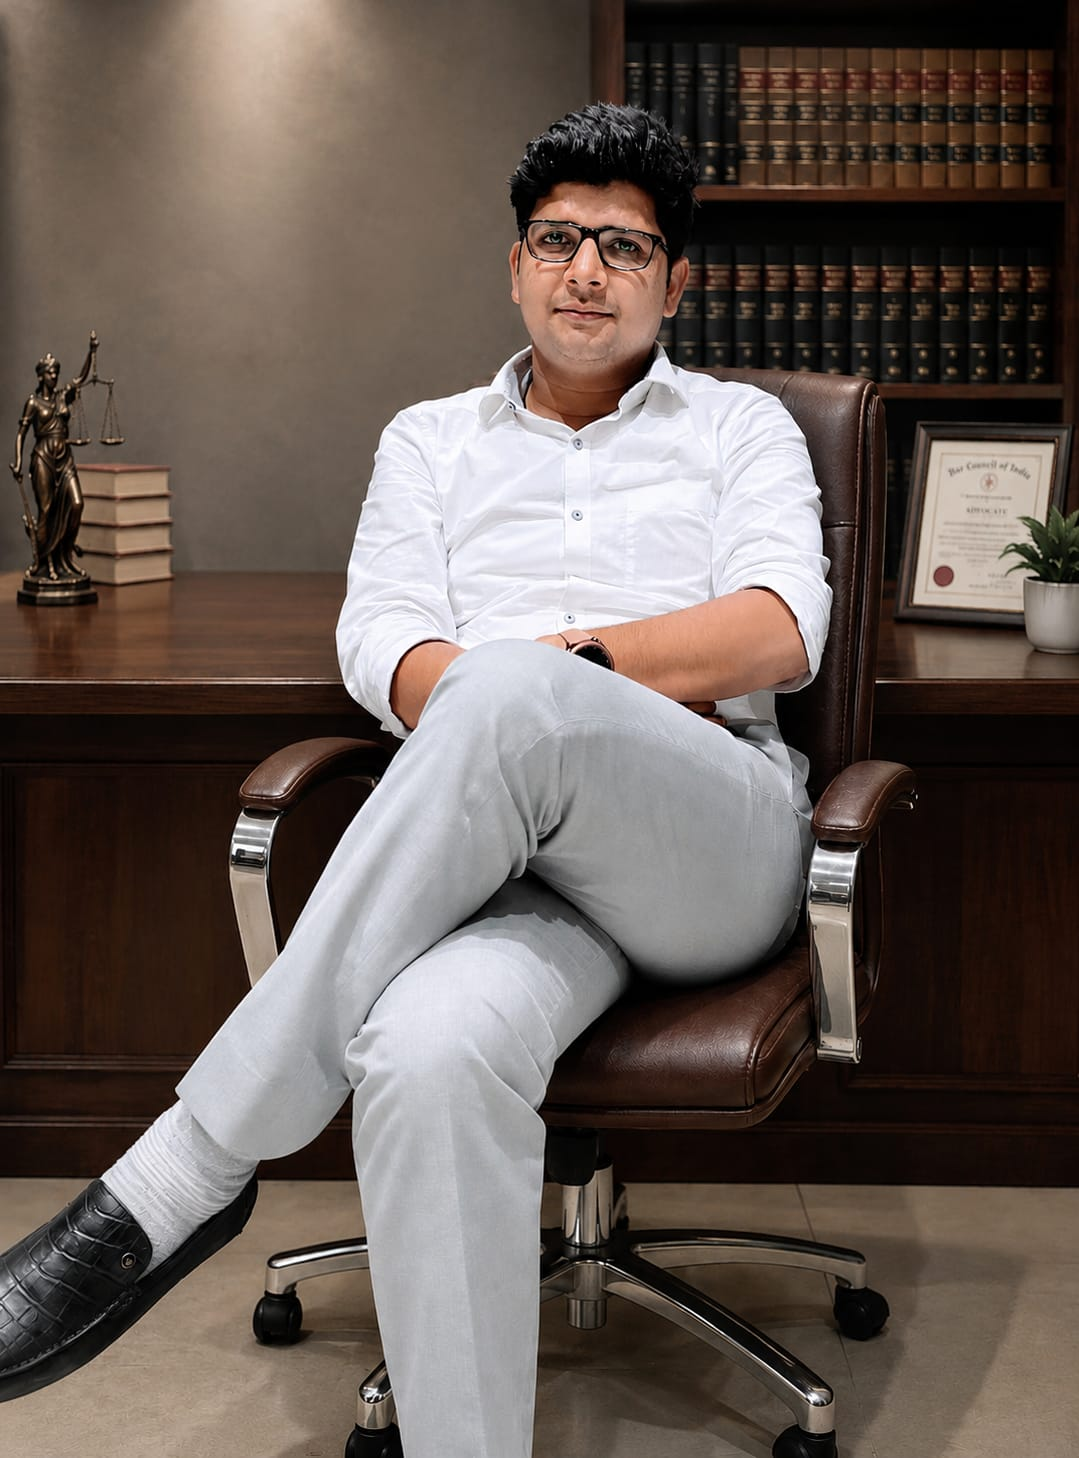
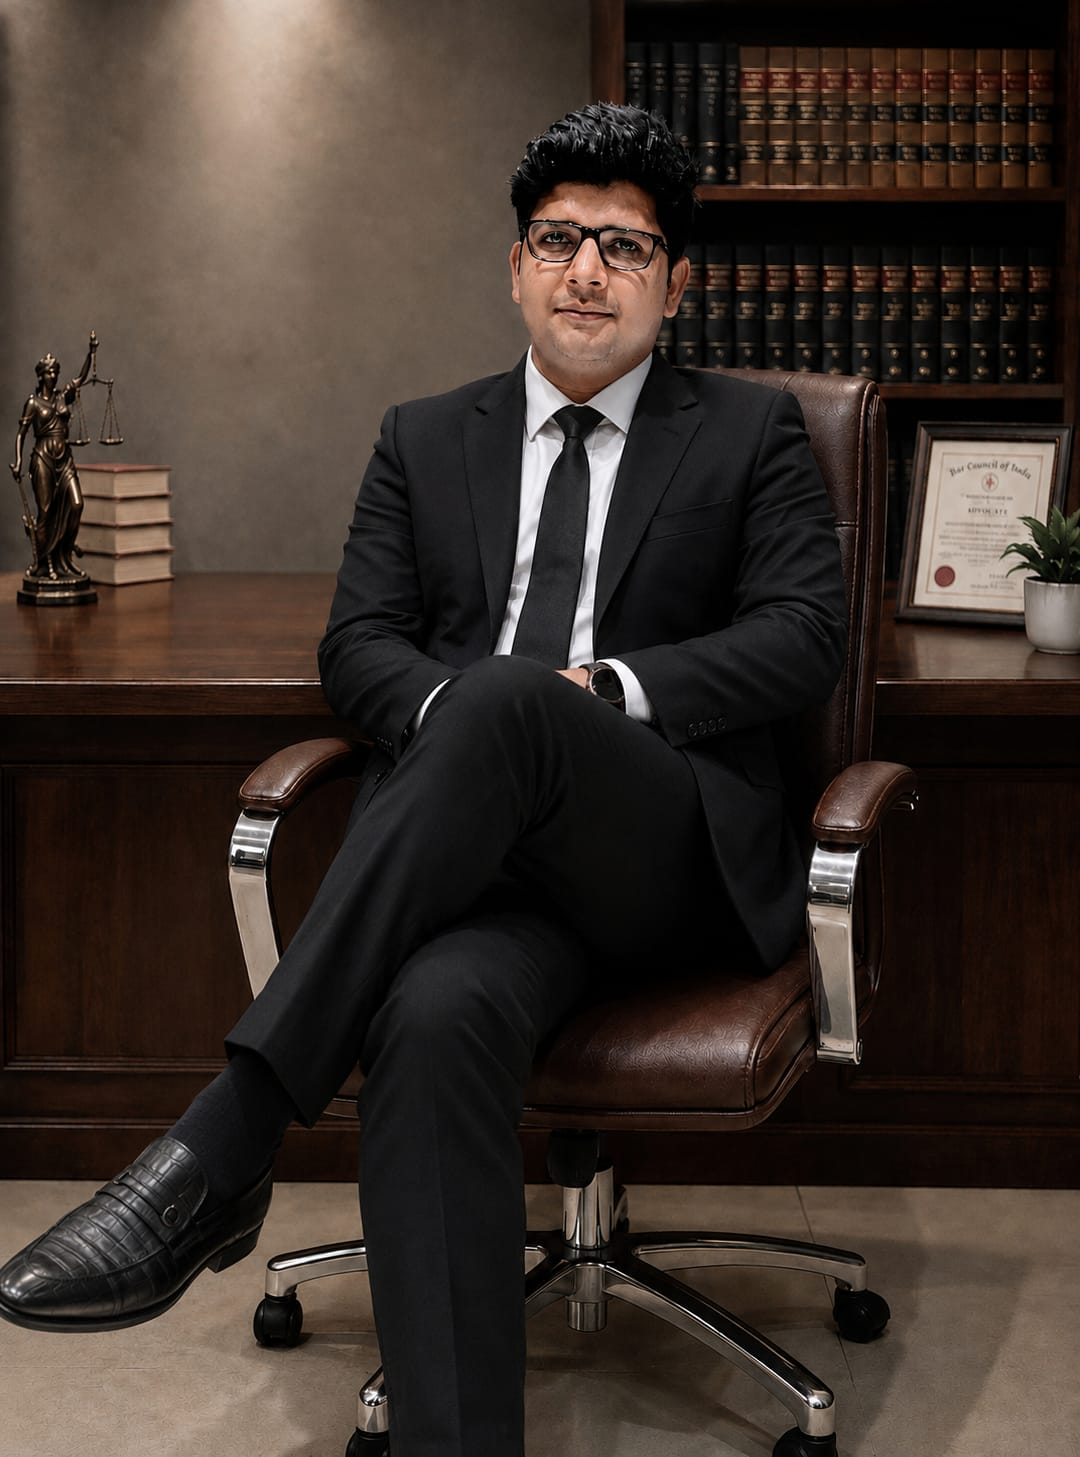
Updated

diff --git a/website/src/data/content.js b/website/src/data/content.js
@@ -5,9 +5,10 @@ export const statistics = [
 ]
 
 export const teamMembers = [
-  { id: '1', name: 'Mohammad Awais', role: 'Founder and Managing Director', image: '/Images/team/awais.jpeg', expertise: ['Trademark Attorney', 'IP Consultant'] },
-  { id: '2', name: 'Gulafhan Afrin', role: 'Associate Councel IP', image: '/Images/team/gulafshan.jpeg', expertise: ['Trademark Prosecution'] },
-  { id: '3', name: 'Pradeep Dwivedi', role: 'Senior Associate IP', image: '/Images/team/pradeep.jpeg', expertise: ['IP prosecution'] },
+  { id: '1', name: 'Mohammad Awais', role: 'Founder and Managing Director', image: '/Images/team/awais.jpeg' /* expertise: ['Trademark Attorney', 'IP Consultant'] */ },
+  { id: '2', name: 'Gulafhan Afrin', role: 'Associate Councel IP', image: '/Images/team/gulafshan.jpeg' /* expertise: ['Trademark Prosecution'] */ },
+  { id: '3', name: 'Pradeep Dwivedi', role: 'Senior Associate IP', image: '/Images/team/pradeep.jpeg' /* expertise: ['IP prosecution'] */ },
+  { id: '4', name: 'Vineeti Sharma', role: 'IP Attorney', image: '/Images/team/vineeti.jpeg' /* expertise: ['Intellectual Property'] */ },
   // { id: '4', name: 'James Whitfield', role: 'Partner — Litigation', bio: 'Trial attorney with extensive IP litigation experience before federal courts.', expertise: ['IP Litigation', 'Injunctions', 'Appeals'] },
   // { id: '5', name: 'Amara Osei', role: 'Counsel — Copyright', bio: 'Digital media and entertainment copyright specialist.', expertise: ['Copyright Registration', 'DMCA', 'Content Licensing'] },
   // { id: '6', name: 'Lucas Chen', role: 'Associate — Design & GI', bio: 'Industrial design and geographical indication registration expert.', expertise: ['Design Registration', 'Geographical Indication', 'Hague System'] },

diff --git a/website/src/components/ui/Cards.jsx b/website/src/components/ui/Cards.jsx
@@ -39,7 +39,7 @@ export function ServiceCard({ service, className, index = 0 }) {
 }
 
 export function TeamCard({ name, role, expertise, image, className }) {
-  const tags = expertise.filter(Boolean)
+  const tags = expertise?.filter(Boolean) ?? []
   return (
     <motion.article
       className={cn('group text-center', className)}
@@ -66,11 +66,13 @@ export function TeamCard({ name, role, expertise, image, className }) {
       </div>
       <h3 className="text-display text-xl font-semibold text-navy">{name}</h3>
       <p className="mt-1 text-sm text-muted">{role}</p>
-      <div className="mt-3 flex flex-wrap justify-center gap-2">
-        {tags.slice(0, 3).map((e) => (
-          <span key={e} className="rounded-full bg-surface px-3 py-1 text-xs text-muted">{e}</span>
-        ))}
-      </div>
+      {tags.length > 0 ? (
+        <div className="mt-3 flex flex-wrap justify-center gap-2">
+          {tags.slice(0, 3).map((e) => (
+            <span key={e} className="rounded-full bg-surface px-3 py-1 text-xs text-muted">{e}</span>
+          ))}
+        </div>
+      ) : null}
     </motion.article>
   )
 }
